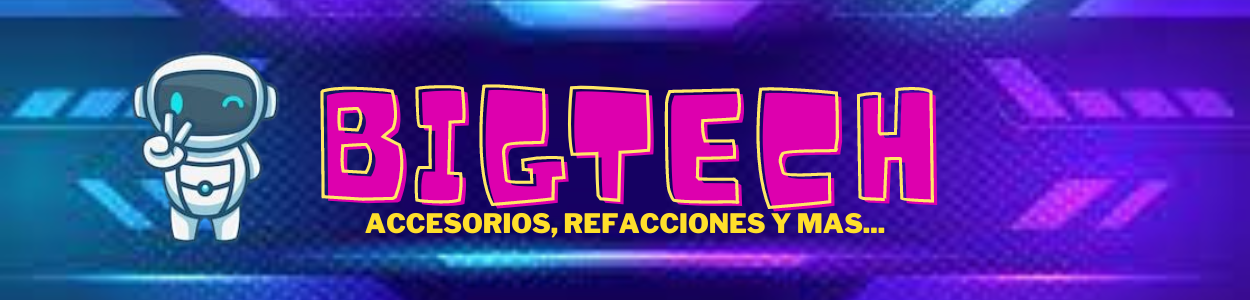
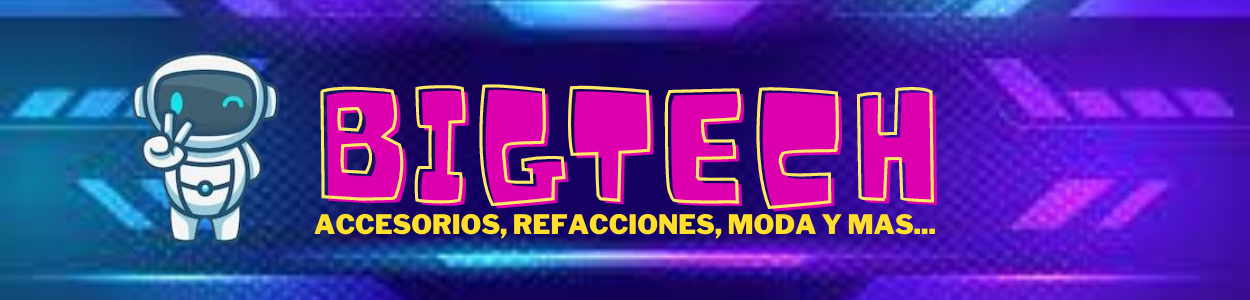
Add files via upload

Changed region(s): [[0.2496, 0.69, 0.7488, 0.78]]

diff --git a/index.html b/index.html
@@ -5,24 +5,23 @@
         <meta name="viewport" content="width=device-width, initial-scale=1, shrink-to-fit=no" />
         <meta name="description" content="Accesorios, Tecnologia y moda..." />
         <meta name="author" content="Jorge Gamez" />
-        <title>BigTech-Mx</title>
-        <!-- Favicon-->
         <link rel="icon" type="image/x-icon" href="assets/favicon.ico" />
-        <!-- Bootstrap icons-->
         <link href="https://cdn.jsdelivr.net/npm/bootstrap-icons@1.5.0/font/bootstrap-icons.css" rel="stylesheet" />
-        <!-- Core theme CSS (includes Bootstrap)-->
         <link href="css/styles.css" rel="stylesheet" />
+
+        <title>BigTech-Mx</title>
+
     </head>
     <body>
         
         <!-- Navigation-->
         <nav class="navbar navbar-expand-lg navbar-light bg-info">
             <div class="container px-4 px-lg-5">
-                <a class="navbar-brand" href="#!">BigTech</a>
+                <a class="navbar-brand" href="index.html">BigTech</a>
                 <button class="navbar-toggler" type="button" data-bs-toggle="collapse" data-bs-target="#navbarSupportedContent" aria-controls="navbarSupportedContent" aria-expanded="false" aria-label="Toggle navigation"><span class="navbar-toggler-icon"></span></button>
                 <div class="collapse navbar-collapse" id="navbarSupportedContent">
                     <ul class="navbar-nav me-auto mb-2 mb-lg-0 ms-lg-4">
-                        <li class="nav-item"><a class="nav-link active" aria-current="page" href="#!">Inicio</a></li>
+                        <li class="nav-item"><a class="nav-link active" aria-current="page" href="index.html">Inicio</a></li>
                         <li class="nav-item"><a class="nav-link" href="#!">Contactanos</a></li>
                         <li class="nav-item dropdown">
                             <a class="nav-link dropdown-toggle" id="navbarDropdown" href="#" role="button" data-bs-toggle="dropdown" aria-expanded="false">Productos</a>
@@ -32,7 +31,7 @@
                                 <li><a class="dropdown-item" href="accesorios.html">Accesorios</a></li>
                                 <li><a class="dropdown-item" href="#!">Celulares</a></li>
                                 <li><a class="dropdown-item" href="#!">Computo</a></li>
-                                <li><a class="dropdown-item" href="#!">Ropa</a></li>
+                                <li><a class="dropdown-item" href="moda.html">Ropa y Calzado</a></li>
                             </ul>
                         </li>
                     </ul>
@@ -48,12 +47,13 @@
         </nav>
 
         <!-- Header-->
-        <header class="bg-white py-5">
+        <header class="bg-white py-0">
             <div>
                 <img src="assets/BigTech.png" width="100%">
             </div>
         </header>
         <hr>
+
         <h2 class="text-center" style="color: darkmagenta;">
             ¡Bienvenido a nuestra tienda en línea!
         </h2>
@@ -405,6 +405,31 @@
             </div>
 
         </section>
+
+
+        <div class="container pb-3">
+            <div class="card" style="width: auto;">
+                <div class="card-header">
+                    <h5>Cuentanos, que productos son de tu interes?</h5>
+                </div>
+                <div class="card-body">
+                    <div class="mb-3">
+                        <label for="nombre" class="form-label">Nombre:</label>
+                        <input type="text" class="form-control" id="txtNombre"
+                            placeholder="Nombre Completo">
+                    </div>
+                    <div class="mb-3">
+                        <label for="correo" class="form-label">Correo:</label>
+                        <input type="email" class="form-control" id="txtcorreo"
+                            placeholder="example@mail.com">
+                    </div>
+                    <div class="mb-3">
+                        <label for="Comentarios" class="form-label">Comentarios:</label>
+                        <textarea class="form-control" id="txtComentarios" rows="3"></textarea>
+                    </div>
+                </div>
+            </div>
+        </div>
 
 
         <!-- PIE PAGINA-->

diff --git a/moda.html b/moda.html
@@ -666,7 +666,7 @@
             </div>
         </div>
     </div>
-    
+
 
     <!-- PIE PAGINA-->
     <footer class="py-4 bg-dark">
